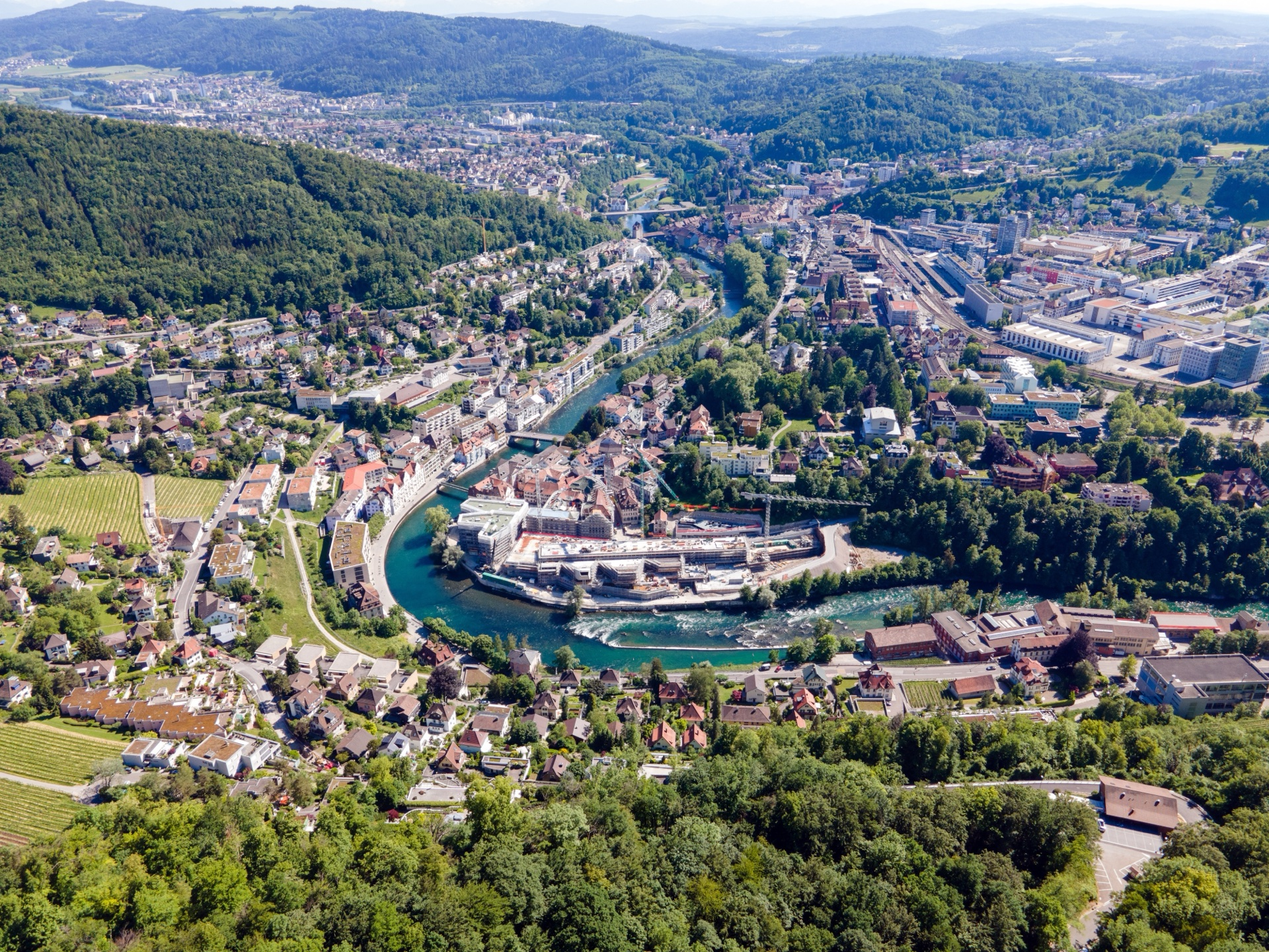
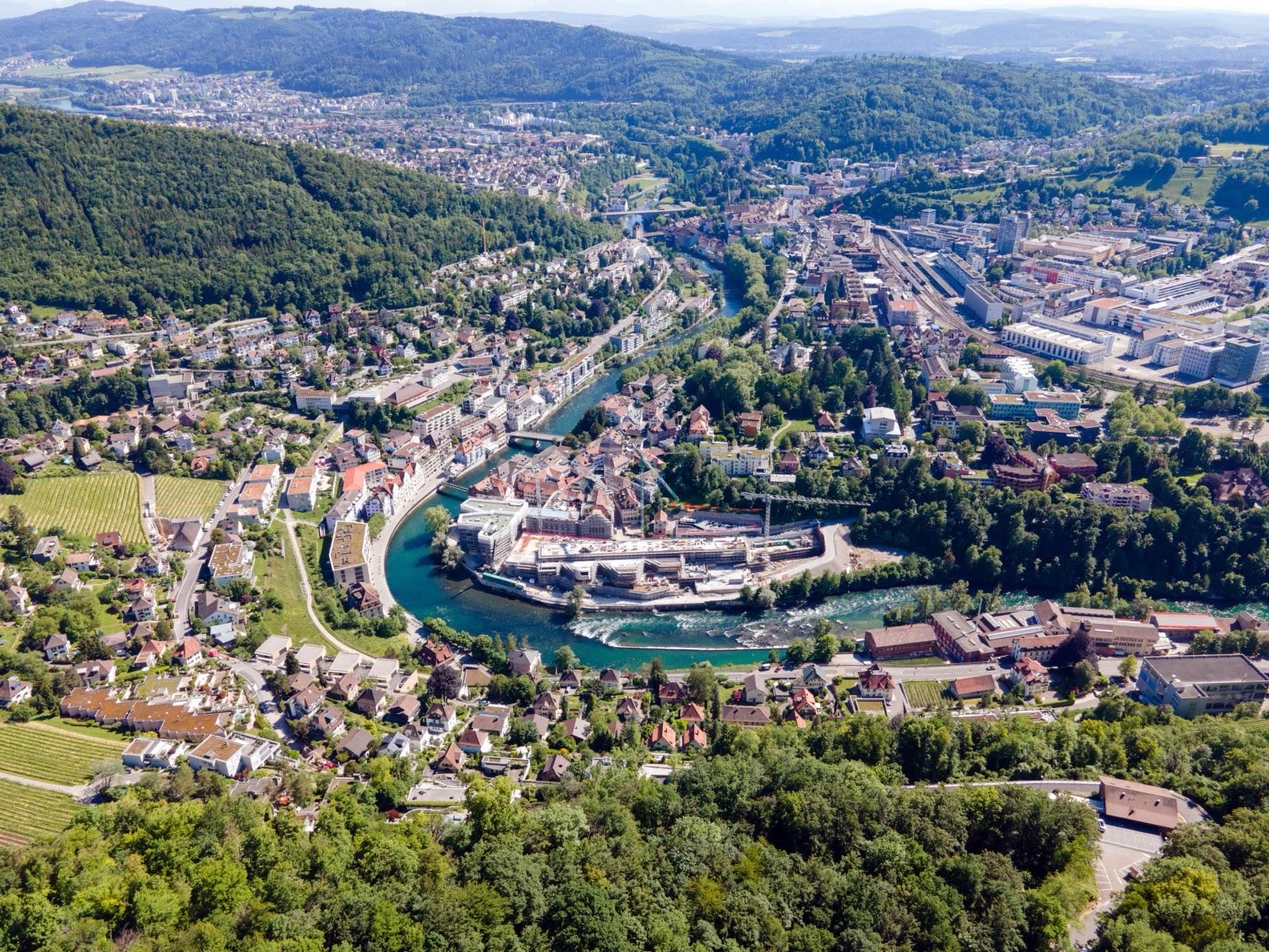
Optimize all images: -57% total size (7.7MB → 3.4MB)
- Resize 2400px-wide desktop heroes to 1920px max
- Recompress desktop hero JPGs (hero-startseite: 1.6MB→542KB,
  hero-verkauf: 898KB→338KB, hero-vermietung: 523KB→252KB, etc.)
- Recompress mobile hero JPGs (75-186KB range)
- Convert Fabienne.png (1.2MB PNG photo) → Fabienne.jpg (119KB)
- Update index.html and team.html references accordingly

diff --git a/team.html b/team.html
@@ -203,7 +203,7 @@
           <!-- Fabienne -->
           <div class="team-member-detail">
             <div class="team-member-detail__photo">
-              <img src="Bilder/Fabienne.png" alt="Fabienne Vis" style="object-position: 25% center;" loading="lazy" />
+              <img src="Bilder/Fabienne.jpg" alt="Fabienne Vis" style="object-position: 25% center;" loading="lazy" />
             </div>
             <div class="team-member-detail__content">
               <h2 class="team-member-detail__name">Fabienne Vis</h2>

diff --git a/index.html b/index.html
@@ -237,7 +237,7 @@
 
           <div class="team-member">
             <div class="team-member__photo">
-              <img src="Bilder/Fabienne.png" alt="Fabienne Vis" style="object-position: 25% center;" loading="lazy" />
+              <img src="Bilder/Fabienne.jpg" alt="Fabienne Vis" style="object-position: 25% center;" loading="lazy" />
             </div>
             <div class="team-member__name">Fabienne Vis</div>
             <div class="team-member__role">Immobilienbewirtschaftung</div>
